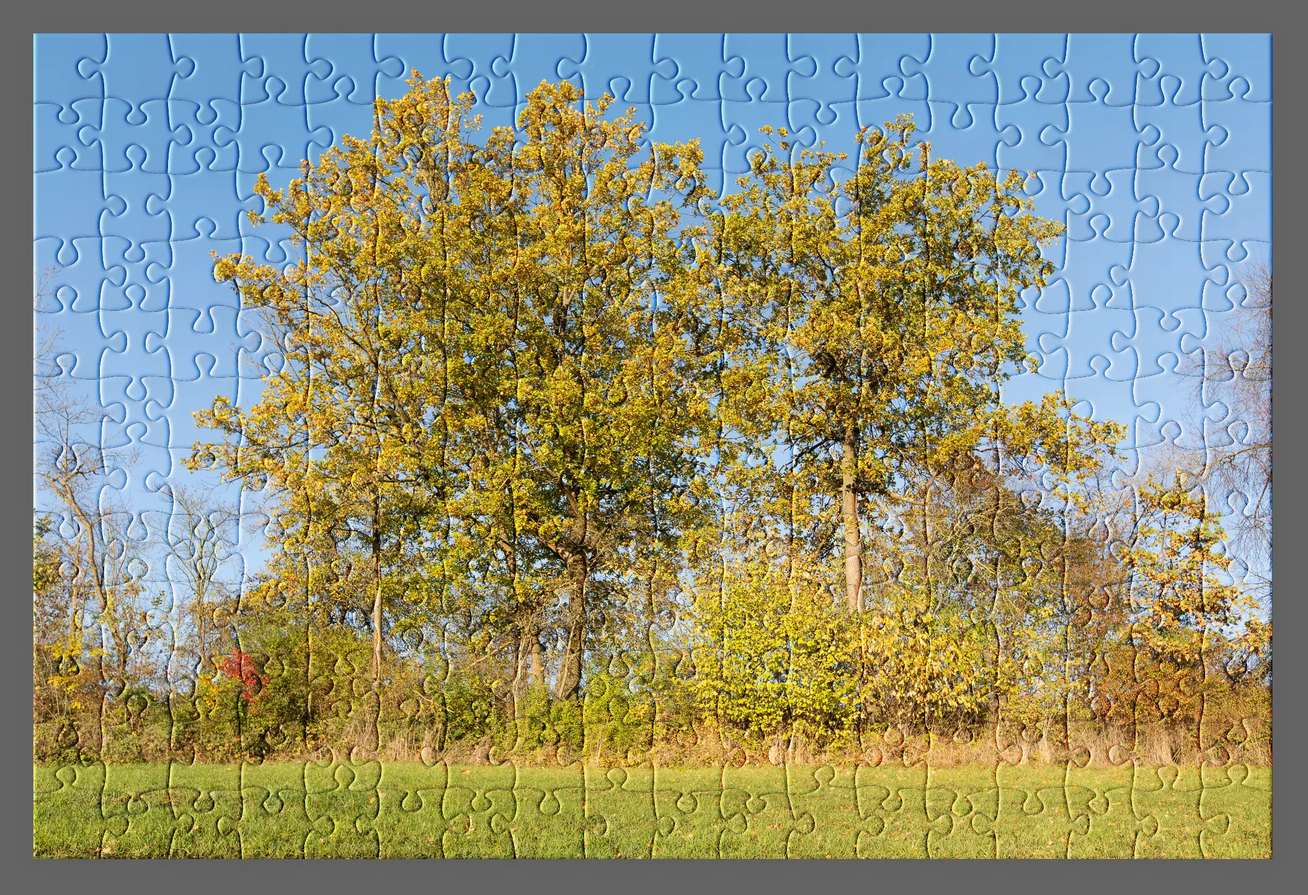
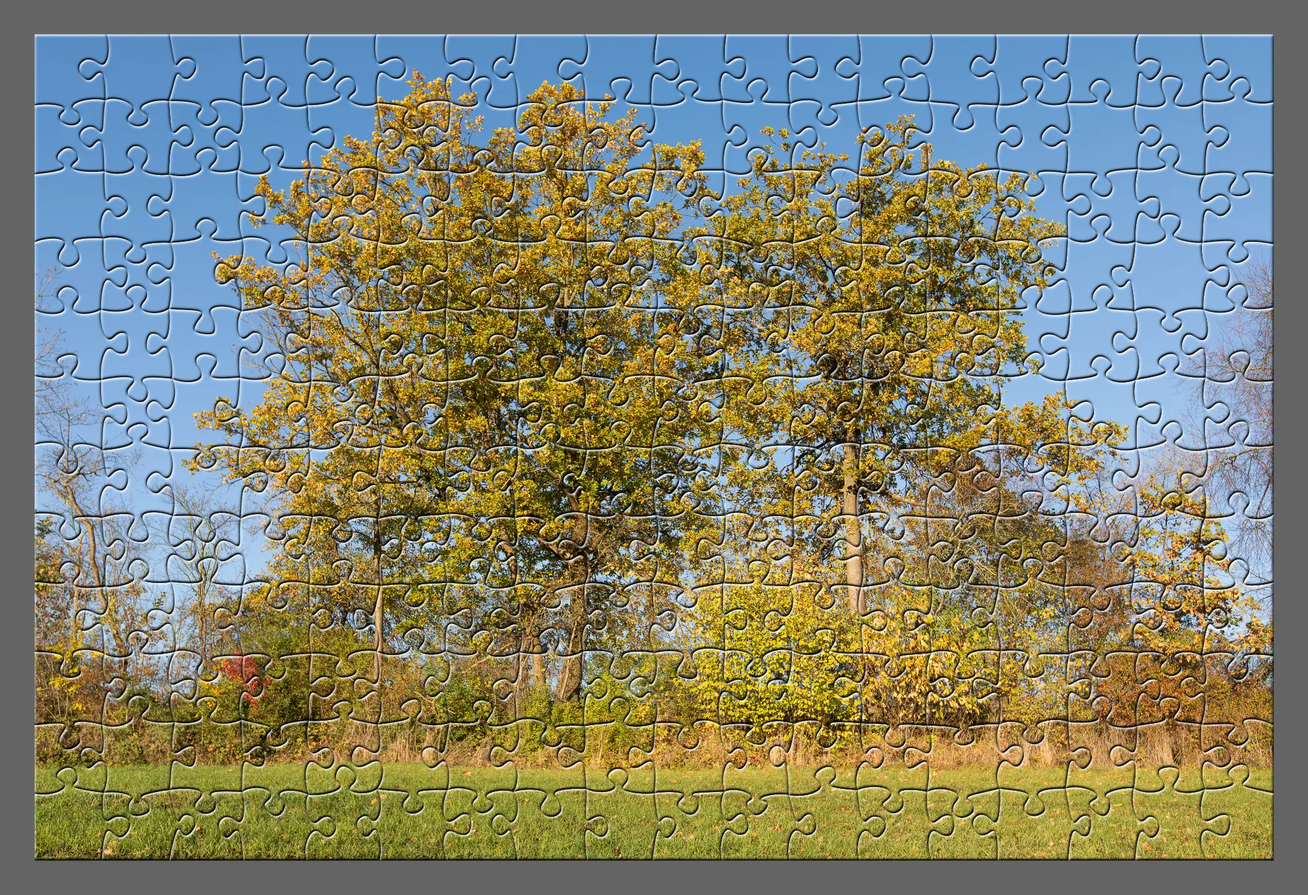
Improve bevel effect handling for images with bright areas
Improved the ImageMagick bevel effect by using refined commands, resulting in a significantly better appearance, especially for photos with bright or white areas.
Updated example A with new photos to clearly demonstrate the improvements in handling highlights.

diff --git a/README.md b/README.md
@@ -131,7 +131,7 @@ Make a puzzle with a default number of pieces (minimum 25 and maximum 40). Blue 
 
 ### Apply ImageMagick® beveling:
 
-    python PlayPuzzle.py --photo photoA.jpg --pz 100 --seed 43 -c b
+    python PlayPuzzle.py --photo photoF.jpg --pz 100 --seed 43 -c b
 
     Puzzle piece width-to-height ratio: 1.0416666666666665
     Make a puzzle with 30 (6x5) parts!
@@ -147,7 +147,7 @@ Make a puzzle with a default number of pieces (minimum 25 and maximum 40). Blue 
 
 ### Apply manual beveling:
 
-    python PlayPuzzle.py --photo photoA.jpg --pz 100 --seed 43 -c b -cb
+    python PlayPuzzle.py --photo photoF.jpg --pz 100 --seed 43 -c b -cb
 
     Puzzle piece width-to-height ratio: 1.0416666666666665
     Make a puzzle with 30 (6x5) parts!
@@ -320,7 +320,7 @@ Run the following command in the directory containing the Dockerfile:
 
 Make 80% of the puzzle
 
-    PlayPuzzle.py --minparts 30 --maxparts 200 --photo photoE.png --pz 80
+    python PlayPuzzle.py --minparts 30 --maxparts 200 --photo photoE.png --pz 80
 
     Puzzle piece width-to-height ratio: 1.0045172219085263
     Make a puzzle with 99 (11x9) parts!
@@ -357,21 +357,19 @@ The beveling in [bevel.zsh](./bevel.zsh) is performed using one of two functions
 Original code:
 
 ```zsh
-imagemagick_bevel () 
+imagemagick_bevel ()
 {
-    for png_file in $tsdir/**/img_puzzle_*.png; do
-        bevel_tmp_png_file="${png_file:r}_tmp_bevel.png"
-        bevel_png_file="${png_file:r}_bevel.png"
+    for png_file in "$tsdir"/**/img_puzzle_*.png; do
+        local file_path_base_name="${png_file:r}"
+        local out_file="${file_path_base_name}_bevel.png"
 
-        convert "$png_file" \
-            \( +clone -alpha Extract -blur 0x3 -shade 170x40 -alpha On -normalize +level 5% \
-            +clone +swap -compose overlay -composite \) \
-            -compose In -composite "$bevel_tmp_png_file"
+        magick "$png_file" -alpha extract "${file_path_base_name}_mask.png"
 
-        convert "$bevel_tmp_png_file" \( +clone -background black -shadow 5x20+2+2 \) +swap \
-            -background none -layers merge +repage -gravity Center -extent $(identify -format "%wx%h" "$png_file") "$bevel_png_file"
-        
-        rm "$bevel_tmp_png_file"
+        magick "${file_path_base_name}_mask.png" \( +clone -blur 0x2 -shade 120x20 -contrast-stretch 0% +sigmoidal-contrast 2x50% -fill grey70 -colorize 10%  \) +swap -alpha Off -compose CopyOpacity -composite "${file_path_base_name}_overlay.png"
+
+        magick "${png_file}" "${file_path_base_name}_overlay.png" -compose Hardlight -composite "${file_path_base_name}_bevel.png"
+
+        rm "${file_path_base_name}_mask.png" "${file_path_base_name}_overlay.png"
     done
 }
 ```
@@ -379,21 +377,24 @@ imagemagick_bevel ()
 Modified code:
 
 ```zsh
-imagemagick_bevel () 
+imagemagick_bevel ()
 {
-    for png_file in $tsdir/**/img_puzzle_*.png; do
-        bevel_png_file="${png_file:r}_bevel.png"
+    for png_file in "$tsdir"/**/img_puzzle_*.png; do
+        local file_path_base_name="${png_file:r}"
+        local out_file="${file_path_base_name}_bevel.png"
 
-        convert "$png_file" \
-            \( +clone -alpha Extract -blur 0x5 -shade 170x40 -alpha On -normalize +level 5% \
-            +clone +swap -compose overlay -composite \) \
-            -compose In -composite "$bevel_png_file"
+        magick "$png_file" -alpha extract "${file_path_base_name}_mask.png"
+
+        magick "${file_path_base_name}_mask.png" \( +clone -blur 0x3 -shade 120x20 -contrast-stretch 0% +sigmoidal-contrast 2x50% -fill grey50 -colorize 10%  \) +swap -alpha Off -compose CopyOpacity -composite "${file_path_base_name}_overlay.png"
+
+        magick "${png_file}" "${file_path_base_name}_overlay.png" -compose Hardlight -composite "${file_path_base_name}_bevel.png"
+
+        rm "${file_path_base_name}_mask.png" "${file_path_base_name}_overlay.png"
     done
 }
 ```
 
-1. The second convert command that applies a shadow effect has been deleted. This change will keep only the original beveled appearance without the additional shadow overlay, making the final image appear less deep or three-dimensional.
-2. In the first convert command, to demonstrate a possible change, we adjust the blur or shade settings through -blur 0x5 that increase the blurriness of the bevel effect.
+See https://usage.imagemagick.org/transform/#shade_blur for more information about customization options.
  
 Hence [bevel.zsh](./bevel.zsh) setup provides flexibility, enabling users to either quickly apply a standardized bevel or to create a custom look by adjusting the script or using external tools.
 
@@ -440,6 +441,10 @@ Depending on the number and size of the images, the batch processing might take 
 ## ImageMagick
 
 - https://imagemagick.org
+
+### ImageMagick - Bevel
+
+- https://usage.imagemagick.org/transform/#shade_blur
 
 ## Affinity Photo
 
